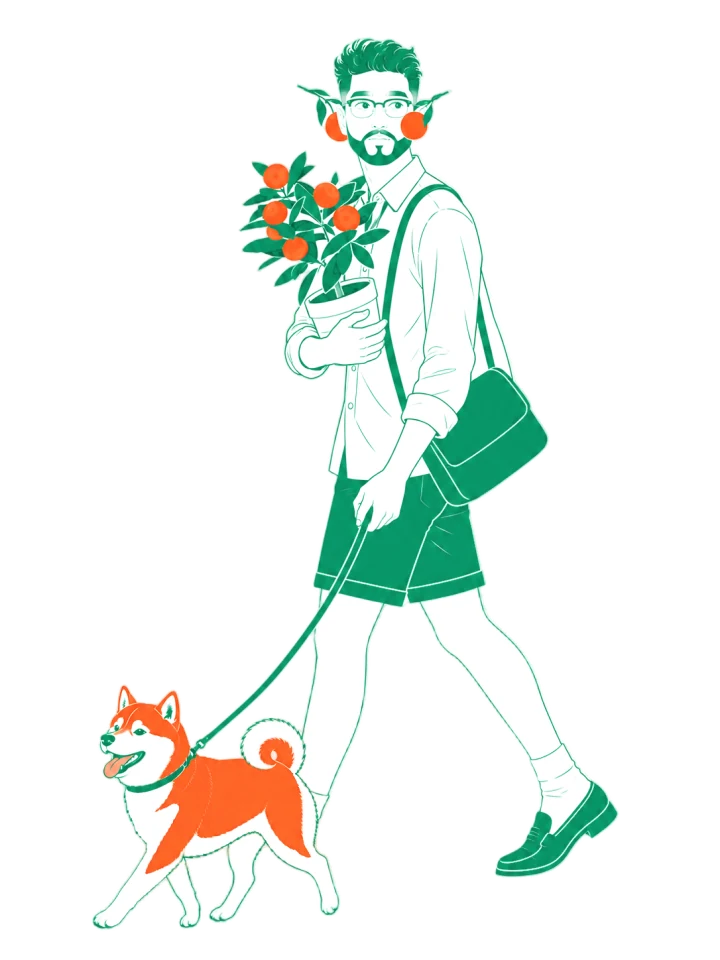
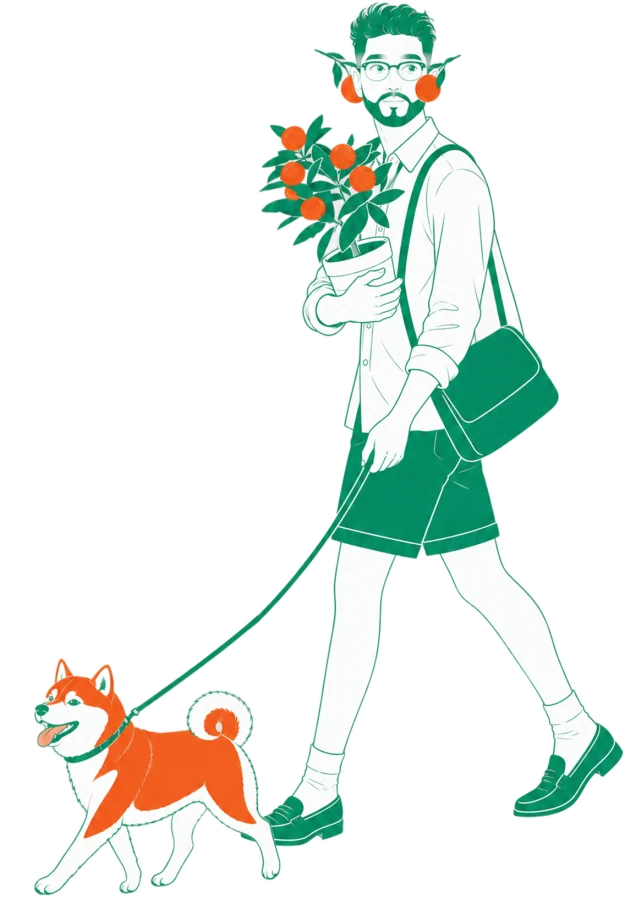
feat: 新增 Hero 多組場景動態輪播與響應式視覺優化

diff --git a/src/index.css b/src/index.css
@@ -329,8 +329,22 @@ h1, h2, h3, h4, h5, h6, .font-serif {
   pointer-events: none;
 }
 
+/* 背景與人物各自一個堆疊層，三組場景重疊在裡面靠透明度切換。
+   疊放順序：背景(0) → 白色漸層(1) → 人物(2)，人物必須高於漸層才不會被淡化。 */
+.hero-bg-layer,
+.hero-char-layer {
+  position: absolute;
+  inset: 0;
+}
+.hero-bg-layer {
+  z-index: 0;
+}
+.hero-char-layer {
+  z-index: 2;
+}
+
 .hero-bg {
-  /* 最終不透明度抽成變數：動畫的 to 會讀它，改一個值就能調各斷點的濃度 */
+  /* 最終不透明度抽成變數：is-active 會讀它，改一個值就能調各斷點的濃度 */
   --hero-bg-opacity: 1;
   position: absolute;
   /* 靠左右各 0 再配 margin-inline:auto 置中；寬度由 aspect-ratio 推得，
@@ -344,10 +358,13 @@ h1, h2, h3, h4, h5, h6, .font-serif {
   max-width: 100%;
   aspect-ratio: 2400 / 1350;
   object-fit: contain;
+  object-position: bottom;
   filter: saturate(0.94);
   /* 左右兩側白色漸層淡出：中央維持原色，往左右邊緣溶進白色頁面。
      上下保持完整，底部的斑馬線才不會被切掉。
      用 mask 而非整張降低不透明度，中心才不會被洗白。 */
+  /* 右側實色只留到 70%（三組人物中最寬的橘子右緣落在 66.1%，留出緩衝），
+     淡出距離拉長並多切幾個階調，過渡更自然。 */
   --hero-mask: linear-gradient(
     to right,
     transparent 0%,
@@ -356,14 +373,23 @@ h1, h2, h3, h4, h5, h6, .font-serif {
     rgba(0, 0, 0, 0.58) 30%,
     rgba(0, 0, 0, 0.85) 39%,
     #000 48%,
-    #000 74%,
-    rgba(0, 0, 0, 0.7) 85%,
-    rgba(0, 0, 0, 0.32) 94%,
+    #000 70%,
+    rgba(0, 0, 0, 0.82) 80%,
+    rgba(0, 0, 0, 0.55) 89%,
+    rgba(0, 0, 0, 0.24) 96%,
     transparent 100%
   );
   -webkit-mask-image: var(--hero-mask);
   mask-image: var(--hero-mask);
-  animation: hero-bg-in 1700ms cubic-bezier(0.22, 1, 0.36, 1) both;
+  /* 預設隱藏並略放大，is-active 時淡入並回正 → 每次切換都有柔和的推近感。
+     只動 opacity 與 transform，交給合成執行緒處理，不觸發重排。 */
+  opacity: 0;
+  transform: scale(1.05);
+  transition: opacity 1200ms ease, transform 1600ms cubic-bezier(0.22, 1, 0.36, 1);
+}
+.hero-bg.is-active {
+  opacity: var(--hero-bg-opacity);
+  transform: scale(1);
 }
 
 /* 只保護左側文字區的白色漸層，往右很快收乾淨，
@@ -371,6 +397,7 @@ h1, h2, h3, h4, h5, h6, .font-serif {
 .hero-veil {
   position: absolute;
   inset: 0;
+  z-index: 1;
   background: linear-gradient(
     100deg,
     rgba(255, 255, 255, 0.95) 0%,
@@ -382,38 +409,32 @@ h1, h2, h3, h4, h5, h6, .font-serif {
   );
 }
 
-/* 只動 opacity 與 transform，交給合成執行緒處理，不觸發重排 */
-@keyframes hero-bg-in {
-  from {
-    opacity: 0;
-    transform: scale(1.06);
-  }
-  to {
-    opacity: var(--hero-bg-opacity);
-    transform: scale(1);
-  }
-}
-
 .hero-character {
   position: absolute;
   /* 放在「左側介紹文字」與「右側 LINE 卡片」之間的空白帶，並貼齊底部，
      高度控制在卡片下緣以下，臉才不會被卡片蓋住。 */
   left: 48%;
-  bottom: 0;
-  height: clamp(180px, 30vw, 380px);
+  /* 裁邊後腳底更貼近圖片邊緣，緊貼 0 會顯得整個人「踩在最底邊」，
+     稍微抬高一點留出呼吸空間。 */
+  bottom: 14px;
+  /* 圖片已裁掉透明留白、內容貼齊，所以顯示高度要比原本(380)縮小，
+     人物視覺大小才跟裁邊前一致。 */
+  height: clamp(160px, 26vw, 335px);
   width: auto;
-  animation: hero-character-in 950ms cubic-bezier(0.22, 1, 0.36, 1) 420ms both;
+  /* 預設沉在下方且透明，is-active 時上浮淡入 → 換組時人物像走進畫面 */
+  opacity: 0;
+  transform: translateY(26px) scale(0.97);
+  transition: opacity 800ms ease, transform 900ms cubic-bezier(0.22, 1, 0.36, 1);
 }
-
-@keyframes hero-character-in {
-  from {
-    opacity: 0;
-    transform: translateY(24px) scale(0.97);
-  }
-  to {
-    opacity: 1;
-    transform: translateY(0) scale(1);
-  }
+.hero-character.is-active {
+  opacity: 1;
+  transform: translateY(0) scale(1);
+  /* 人物比背景晚一點浮現，避免兩者同時動顯得雜亂 */
+  transition-delay: 260ms;
+}
+/* 檸檬那組人物前傾、狗又跑在左前方，桌機稍微往左擺構圖較平衡 */
+.hero-char--lemon {
+  left: 43%;
 }
 
 @media (max-width: 767px) {
@@ -430,17 +451,29 @@ h1, h2, h3, h4, h5, h6, .font-serif {
   .hero-media {
     position: relative;
     order: 2;
+    /* banner 是 align-items:center 的直式 flex，這裡要自行撐滿寬度，
+       否則圖層 width:100% 會因父層無固有寬度而塌成 0。 */
+    width: 100%;
+    align-self: stretch;
     margin-top: 28px;
+  }
+  /* 三組背景要重疊淡入淡出，改由這個 16:9 的框撐出區塊高度，圖片絕對定位填滿 */
+  .hero-bg-layer {
+    position: relative;
+    width: 100%;
+    aspect-ratio: 16 / 9;
   }
   .hero-bg {
     --hero-bg-opacity: 1;
-    position: relative;
+    position: absolute;
+    inset: 0;
     margin-inline: 0;
     aspect-ratio: auto;
     width: 100%;
-    height: auto;
+    height: 100%;
     max-width: none;
     object-fit: contain;
+    object-position: bottom;
     /* 單獨出現、不壓在文字上，就不需要淡出遮罩 */
     -webkit-mask-image: none;
     mask-image: none;
@@ -449,21 +482,45 @@ h1, h2, h3, h4, h5, h6, .font-serif {
   .hero-veil {
     display: none;
   }
-  /* 靠左擺在樹蔭那一側；高度用 vw 綁定圖寬，
-     人物與斑馬線的比例才不會隨螢幕寬度跑掉 */
+  /* 高度用 vw 綁定圖寬，人物與斑馬線的比例才不會隨螢幕寬度跑掉；
+     稍微抬離底邊，避免整個人貼著容器邊緣被裁切。 */
   .hero-character {
     left: 13%;
     right: auto;
-    height: 46vw;
+    bottom: 10px;
+    height: 36vw;
+  }
+  /* 橘子：擺左側樹蔭。舊圖腳底留白較多才需要下沉，
+     裁邊後的新圖已經貼齊，不再需要負值，避免被 overflow:hidden 切腳；
+     比其他兩組再下沉一點點貼近斑馬線。 */
+  .hero-char--orange {
+    bottom: 3px;
+  }
+  /* 葡萄：六本木場景構圖偏中央，人物置中比較平衡。
+     預設與 is-active 都要疊上 translateX(-50%)，否則淡入時會出現橫向漂移。 */
+  .hero-char--grape {
+    left: 50%;
+    right: auto;
+    transform: translateX(-50%) translateY(26px) scale(0.97);
+  }
+  .hero-char--grape.is-active {
+    transform: translateX(-50%) translateY(0) scale(1);
+  }
+  /* 檸檬：改擺右側 */
+  .hero-char--lemon {
+    left: auto;
+    right: 6%;
   }
 }
 
-/* 使用者開啟「減少動態效果」時直接顯示成品，不做位移與縮放 */
+/* 使用者開啟「減少動態效果」時，切換改為瞬間、不做位移與縮放
+   （場景仍會每 20 秒替換，但沒有淡入滑動的動態） */
 @media (prefers-reduced-motion: reduce) {
   .hero-bg,
   .hero-character {
-    animation-duration: 1ms;
-    animation-delay: 0ms;
+    transition-duration: 1ms;
+    transition-delay: 0ms;
+    transform: none;
   }
 }
 

diff --git a/src/App.tsx b/src/App.tsx
@@ -20,6 +20,14 @@ import { TermModal } from "./components/TermModal";
 import { ThreadsCarousel } from "./components/ThreadsCarousel";
 import HeaderInfoBar from "./components/HeaderInfoBar";
 
+// 首圖三組場景，每約 20 秒輪換：背景淡入淡出、人物浮現切換。
+const HERO_SETS = [
+  { key: "orange", bg: "/hero-bg.webp", character: "/hero-character.webp" },
+  { key: "grape", bg: "/hero-roppongi.webp", character: "/hero-character-grape.webp" },
+  { key: "lemon", bg: "/hero-fuji.webp", character: "/hero-character-lemon.webp" },
+];
+const HERO_ROTATE_MS = 20000;
+
 export default function App() {
   // Navigation tabs: 'cards' (租屋知識圖卡), 'buyHouse' (買房知識大補帖), 'calculator' (預算估算), 'chat' (AI問答), 'contact' (聯絡Linus)
   const [activeTab, setActiveTab] = useState<"cards" | "buyHouse" | "calculator" | "chat" | "contact">("cards");
@@ -28,6 +36,15 @@ export default function App() {
   const [scrolled, setScrolled] = useState(false);
   const [scrollProgress, setScrollProgress] = useState(0);
   const [showToTop, setShowToTop] = useState(false);
+
+  // 首圖場景輪播索引
+  const [heroSet, setHeroSet] = useState(0);
+  useEffect(() => {
+    const id = window.setInterval(() => {
+      setHeroSet(prev => (prev + 1) % HERO_SETS.length);
+    }, HERO_ROTATE_MS);
+    return () => window.clearInterval(id);
+  }, []);
 
   useEffect(() => {
     const handleScroll = () => {
@@ -328,12 +345,36 @@ export default function App() {
 
       {/* Hero Banner Section */}
       <section className="hero-banner bg-white pt-12 pb-12 lg:pb-28 border-b border-[#DDE3DF] relative overflow-hidden" id="hero-banner">
-        {/* 背景與人物圖層：純裝飾，不進無障礙樹，也不攔截點擊 */}
+        {/* 背景與人物圖層：純裝飾，不進無障礙樹，也不攔截點擊。
+            三組場景堆疊，靠 is-active 切換透明度做淡入淡出／浮現。 */}
         <div className="hero-media" aria-hidden="true">
-          <img src="/hero-bg.webp" alt="" className="hero-bg" fetchPriority="high" decoding="async" />
+          <div className="hero-bg-layer">
+            {HERO_SETS.map((set, i) => (
+              <img
+                key={set.key}
+                src={set.bg}
+                alt=""
+                className={`hero-bg ${i === heroSet ? "is-active" : ""}`}
+                fetchPriority={i === 0 ? "high" : undefined}
+                loading={i === 0 ? undefined : "lazy"}
+                decoding="async"
+              />
+            ))}
+          </div>
           {/* 白色漸層必須夾在背景與人物之間：只淡化背景，人物維持原色 */}
           <div className="hero-veil" />
-          <img src="/hero-character.webp" alt="" className="hero-character" decoding="async" />
+          <div className="hero-char-layer">
+            {HERO_SETS.map((set, i) => (
+              <img
+                key={set.key}
+                src={set.character}
+                alt=""
+                className={`hero-character hero-char--${set.key} ${i === heroSet ? "is-active" : ""}`}
+                loading={i === 0 ? undefined : "lazy"}
+                decoding="async"
+              />
+            ))}
+          </div>
         </div>
 
         <div className="relative z-10 w-full max-w-6xl mx-auto px-6 grid grid-cols-1 lg:grid-cols-12 gap-8 items-center">